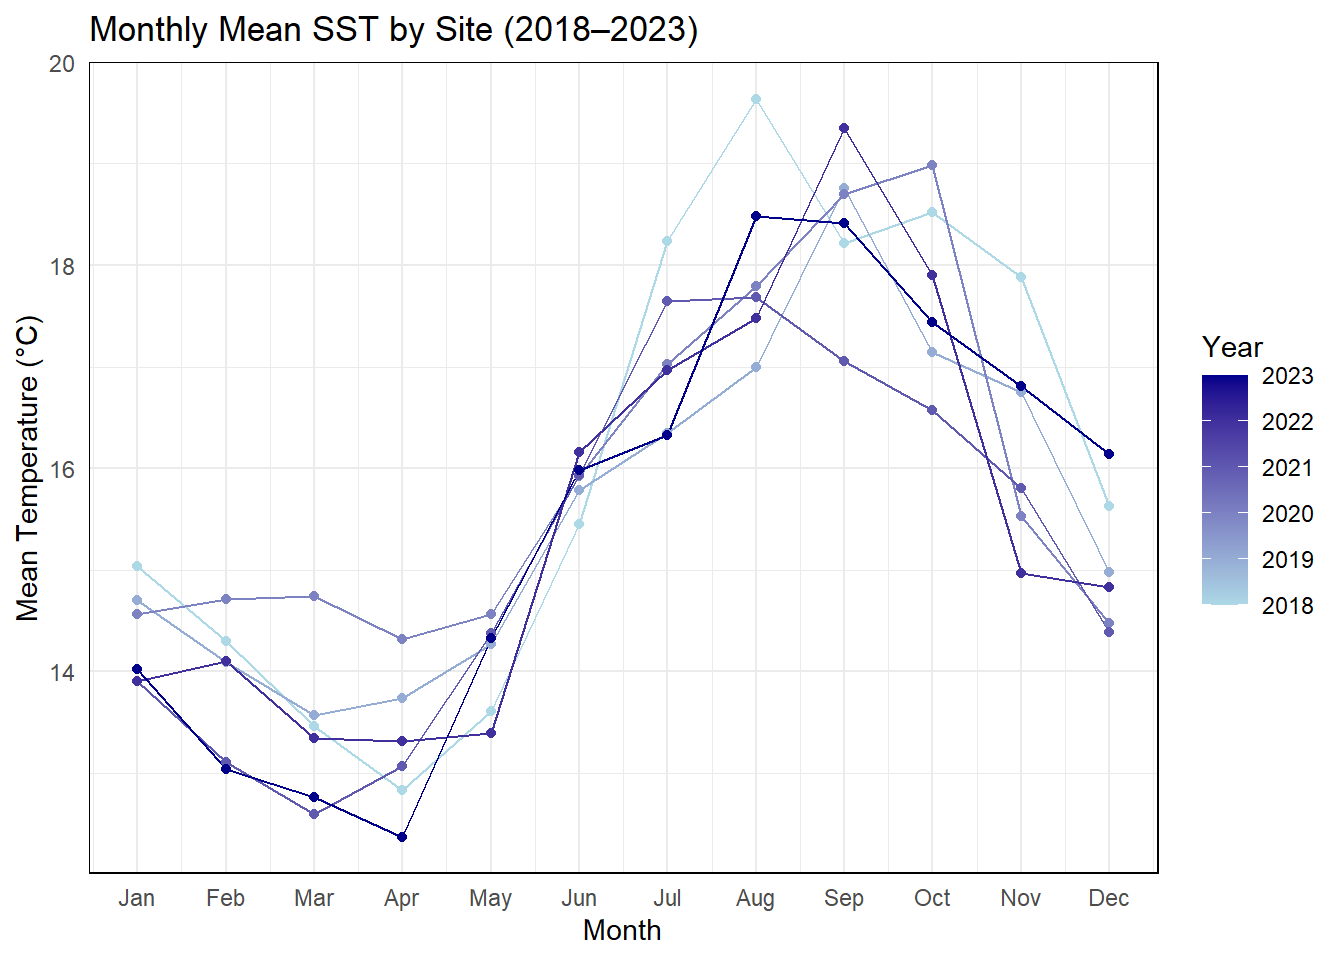
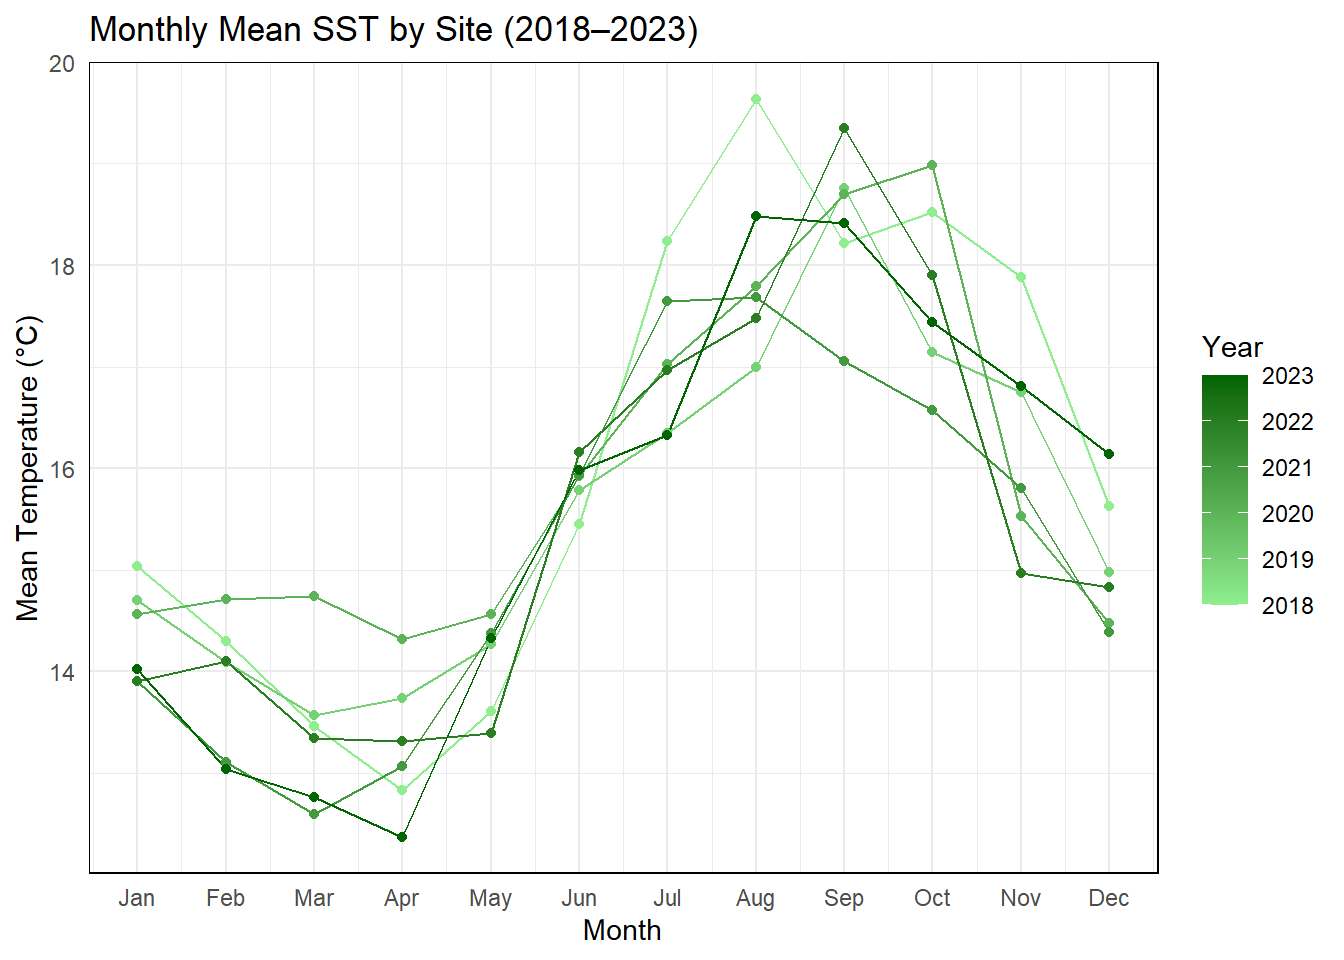
read in data for problem 3 and answereing part a

diff --git a/code/final_hunter_ross.html b/code/final_hunter_ross.html
@@ -149,11 +149,11 @@ pre > code.sourceCode > span > a:first-child::before { text-decoration: underlin
 <pre><code># A tibble: 5 × 3
    year month mean_temp
   &lt;dbl&gt; &lt;dbl&gt;     &lt;dbl&gt;
-1  1985    11      15.3
-2  1992     4      15.4
-3  2000     9      17.3
-4  2015     3      15.8
-5  1993    10      17.7</code></pre>
+1  1988    11      14.7
+2  2005     6      14.2
+3  1997     7      17.4
+4  1996     4      13.2
+5  2008     3      12.5</code></pre>
 </div>
 <div class="sourceCode cell-code" id="cb4"><pre class="sourceCode r code-with-copy"><code class="sourceCode r"><span id="cb4-1"><a href="#cb4-1" aria-hidden="true" tabindex="-1"></a><span class="co">#show output</span></span>
 <span id="cb4-2"><a href="#cb4-2" aria-hidden="true" tabindex="-1"></a><span class="fu">str</span>(sst_clean)</span></code><button title="Copy to Clipboard" class="code-copy-button"><i class="bi"></i></button></pre></div>
@@ -178,8 +178,8 @@ pre > code.sourceCode > span > a:first-child::before { text-decoration: underlin
 <span id="cb6-8"><a href="#cb6-8" aria-hidden="true" tabindex="-1"></a>  <span class="fu">geom_point</span>() <span class="sc">+</span><span class="co"># Add point  for each month</span></span>
 <span id="cb6-9"><a href="#cb6-9" aria-hidden="true" tabindex="-1"></a>  <span class="fu">scale_x_continuous</span>(<span class="at">breaks =</span> <span class="dv">1</span><span class="sc">:</span><span class="dv">12</span>, <span class="at">labels =</span> month.abb) <span class="sc">+</span>  <span class="co"># Month labels</span></span>
 <span id="cb6-10"><a href="#cb6-10" aria-hidden="true" tabindex="-1"></a>  <span class="fu">scale_color_gradient</span>(</span>
-<span id="cb6-11"><a href="#cb6-11" aria-hidden="true" tabindex="-1"></a>    <span class="at">low =</span> <span class="st">"lightblue"</span>, </span>
-<span id="cb6-12"><a href="#cb6-12" aria-hidden="true" tabindex="-1"></a>    <span class="at">high =</span> <span class="st">"darkblue"</span>, </span>
+<span id="cb6-11"><a href="#cb6-11" aria-hidden="true" tabindex="-1"></a>    <span class="at">low =</span> <span class="st">"lightgreen"</span>, </span>
+<span id="cb6-12"><a href="#cb6-12" aria-hidden="true" tabindex="-1"></a>    <span class="at">high =</span> <span class="st">"darkgreen"</span>, </span>
 <span id="cb6-13"><a href="#cb6-13" aria-hidden="true" tabindex="-1"></a>    <span class="at">name =</span> <span class="st">"Year"</span></span>
 <span id="cb6-14"><a href="#cb6-14" aria-hidden="true" tabindex="-1"></a>  ) <span class="sc">+</span></span>
 <span id="cb6-15"><a href="#cb6-15" aria-hidden="true" tabindex="-1"></a>  <span class="fu">labs</span>(</span>
@@ -206,6 +206,10 @@ pre > code.sourceCode > span > a:first-child::before { text-decoration: underlin
 <h1>Problem 3. Data analysis</h1>
 <section id="a.-response-variable" class="level3">
 <h3 class="anchored" data-anchor-id="a.-response-variable">a. Response variable</h3>
+<div class="cell">
+<div class="sourceCode cell-code" id="cb7"><pre class="sourceCode r code-with-copy"><code class="sourceCode r"><span id="cb7-1"><a href="#cb7-1" aria-hidden="true" tabindex="-1"></a>nest_boxes <span class="ot">&lt;-</span> <span class="fu">read.csv</span>(<span class="fu">here</span>(<span class="st">"data/occdist.csv"</span>))</span></code><button title="Copy to Clipboard" class="code-copy-button"><i class="bi"></i></button></pre></div>
+</div>
+<p>The 1 means that the bird was present a 0 means that the bird was not present.</p>
 </section>
 <section id="b.-purpose-of-study" class="level3">
 <h3 class="anchored" data-anchor-id="b.-purpose-of-study">b. Purpose of study</h3>
